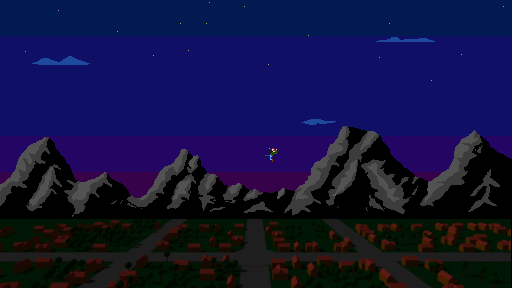
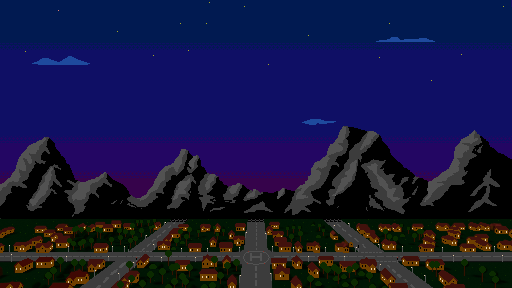
Cannon with recoil!

diff --git a/UfoundLost.js b/UfoundLost.js
@@ -1,64 +1,6 @@
 "use strict";
 var UfoundLost;
 (function (UfoundLost) {
-    var ƒAid = FudgeAid;
-    class Detonation extends ƒAid.Node {
-        constructor(_position) {
-            super("Detonation", ƒ.Matrix4x4.TRANSLATION(_position), Detonation.material, Detonation.mesh);
-            this.getComponent(ƒ.ComponentMesh).pivot.scaling = ƒ.Vector3.ONE(Detonation.radius);
-            // this.getComponent(ƒ.ComponentMaterial).pivot.scaling = ƒ.Vector2.ONE(10);
-        }
-        update(_timeslice) {
-            let cmpMaterial = this.getComponent(ƒ.ComponentMaterial);
-            cmpMaterial.clrPrimary.a -= _timeslice;
-            return (cmpMaterial.clrPrimary.a < 0);
-        }
-    }
-    Detonation.mesh = new ƒ.MeshSphere("Detonation", 10, 10);
-    Detonation.material = new ƒ.Material("Detonation", ƒ.ShaderUniColor, new ƒ.CoatColored(ƒ.Color.CSS("gray")));
-    // private static material: ƒ.Material = new ƒ.Material("Detonation", ƒ.ShaderTexture,
-    //   new ƒ.CoatTextured(ƒ.Color.CSS("white"), new ƒ.TextureImage("Images/Smoke.png"))
-    // );
-    Detonation.radius = 2;
-    UfoundLost.Detonation = Detonation;
-})(UfoundLost || (UfoundLost = {}));
-var UfoundLost;
-(function (UfoundLost) {
-    class Flak extends ƒ.Node {
-        constructor() {
-            super("FlakGraph");
-            let mtrCrosshair = new ƒ.Material("Crosshair", ƒ.ShaderTexture, new ƒ.CoatTextured(ƒ.Color.CSS("White"), new ƒ.TextureImage("Images/Crosshair.png")));
-            this.crosshair = new UfoundLost.GameObject("Crosshair", ƒ.Vector3.Y(UfoundLost.ufoSpaceDefinition.height), mtrCrosshair, ƒ.Vector2.ONE(0.5));
-            this.crosshair.maxVelocity = 3;
-            this.appendChild(this.crosshair);
-            this.crosshairTarget = new UfoundLost.GameObject("CrosshairTarget", ƒ.Vector3.Y(UfoundLost.ufoSpaceDefinition.height - 2), mtrCrosshair, ƒ.Vector2.ONE(0.3));
-            this.appendChild(this.crosshairTarget);
-            this.detonations = new ƒ.Node("Detonations");
-            this.appendChild(this.detonations);
-        }
-        update(_timeslice) {
-            this.crosshair.setTargetPosition(this.crosshairTarget.mtxLocal.translation);
-            this.crosshair.update(_timeslice);
-            for (let detonation of this.detonations.getChildren()) {
-                if (detonation.update(_timeslice))
-                    this.detonations.removeChild(detonation);
-            }
-        }
-        input(_x, _y, _z) {
-            let move = new ƒ.Vector3(_x, _y, _z);
-            this.crosshairTarget.mtxLocal.translate(move);
-            this.crosshairTarget.restrictPosition(UfoundLost.ufoSpaceDefinition.min, UfoundLost.ufoSpaceDefinition.max);
-        }
-        shoot() {
-            ƒ.Debug.fudge("shoot");
-            let detonation = new UfoundLost.Detonation(this.crosshair.mtxLocal.translation);
-            this.detonations.appendChild(detonation);
-        }
-    }
-    UfoundLost.Flak = Flak;
-})(UfoundLost || (UfoundLost = {}));
-var UfoundLost;
-(function (UfoundLost) {
     var ƒ = FudgeCore;
     class GameObject extends ƒ.Node {
         constructor(_name, _position, _material, _size, _rotation) {
@@ -103,6 +45,91 @@ var UfoundLost;
     }
     GameObject.meshSprite = new ƒ.MeshSprite();
     UfoundLost.GameObject = GameObject;
+})(UfoundLost || (UfoundLost = {}));
+///<reference path="GameObject.ts"/>
+var UfoundLost;
+///<reference path="GameObject.ts"/>
+(function (UfoundLost) {
+    class Detonation extends UfoundLost.GameObject {
+        constructor(_position) {
+            super("Detonation", _position, Detonation.material, ƒ.Vector2.ONE(Detonation.radius));
+            // this.getComponent(ƒ.ComponentMaterial).pivot.scaling = ƒ.Vector2.ONE(10);
+            this.velocity = ƒ.Vector3.Y(0.3);
+        }
+        update(_timeslice) {
+            super.update(_timeslice);
+            let cmpMaterial = this.getComponent(ƒ.ComponentMaterial);
+            cmpMaterial.clrPrimary.a -= _timeslice;
+            return (cmpMaterial.clrPrimary.a < 0);
+        }
+    }
+    Detonation.material = new ƒ.Material("Detonation", ƒ.ShaderTexture, new ƒ.CoatTextured(new ƒ.Color(1, 0.4, 0.2), new ƒ.TextureImage("Images/Smoke.png")));
+    Detonation.radius = 2;
+    UfoundLost.Detonation = Detonation;
+})(UfoundLost || (UfoundLost = {}));
+var UfoundLost;
+(function (UfoundLost) {
+    var ƒAid = FudgeAid;
+    class Flak extends ƒ.Node {
+        constructor() {
+            super("FlakGraph");
+            let mtrCrosshair = new ƒ.Material("Crosshair", ƒ.ShaderTexture, new ƒ.CoatTextured(ƒ.Color.CSS("White"), new ƒ.TextureImage("Images/Crosshair.png")));
+            this.crosshair = new UfoundLost.GameObject("Crosshair", ƒ.Vector3.Y(UfoundLost.ufoSpaceDefinition.height), mtrCrosshair, ƒ.Vector2.ONE(0.5));
+            this.crosshair.maxVelocity = 3;
+            this.appendChild(this.crosshair);
+            this.crosshairTarget = new UfoundLost.GameObject("CrosshairTarget", ƒ.Vector3.Y(UfoundLost.ufoSpaceDefinition.height - 2), mtrCrosshair, ƒ.Vector2.ONE(0.3));
+            this.appendChild(this.crosshairTarget);
+            this.detonations = new ƒ.Node("Detonations");
+            this.appendChild(this.detonations);
+            this.cannon = this.createCannon();
+            this.appendChild(this.cannon);
+        }
+        update(_timeslice) {
+            this.crosshair.setTargetPosition(this.crosshairTarget.mtxLocal.translation);
+            this.crosshair.update(_timeslice);
+            let bearing = Reflect.get(this.cannon, "bearingLocal");
+            bearing.lookAt(this.crosshair.mtxLocal.translation);
+            let pivot = Reflect.get(this.cannon, "barrelPivot");
+            if (pivot.translation.z < 0.2)
+                pivot.translateZ((0.2 - pivot.translation.z) / 5);
+            for (let detonation of this.detonations.getChildren()) {
+                if (detonation.update(_timeslice))
+                    this.detonations.removeChild(detonation);
+            }
+        }
+        input(_x, _y, _z) {
+            let move = new ƒ.Vector3(_x, _y, _z);
+            this.crosshairTarget.mtxLocal.translate(move);
+            this.crosshairTarget.restrictPosition(UfoundLost.ufoSpaceDefinition.min, UfoundLost.ufoSpaceDefinition.max);
+        }
+        shoot() {
+            ƒ.Debug.fudge("shoot");
+            let detonation = new UfoundLost.Detonation(this.crosshair.mtxLocal.translation);
+            this.detonations.appendChild(detonation);
+            let pivot = Reflect.get(this.cannon, "barrelPivot");
+            pivot.translation = ƒ.Vector3.Z(0.0);
+        }
+        createCannon() {
+            let cannon = new ƒAid.Node("Cannon", ƒ.Matrix4x4.TRANSLATION(ƒ.Vector3.Z(5)));
+            let mtrCannon = new ƒ.Material("Cannon", ƒ.ShaderFlat, new ƒ.CoatColored(ƒ.Color.CSS("lightgrey")));
+            let meshCannon = new ƒ.MeshCube();
+            let barrel = new ƒAid.Node("Barrel", ƒ.Matrix4x4.IDENTITY(), mtrCannon, meshCannon);
+            let pivot = barrel.getComponent(ƒ.ComponentMesh).pivot;
+            pivot.rotateZ(45);
+            pivot.scale(new ƒ.Vector3(0.05, 0.05, 0.3));
+            pivot.translateZ(0.2);
+            cannon.appendChild(new ƒAid.Node("Pod1", ƒ.Matrix4x4.SCALING(new ƒ.Vector3(0.2, 0.02, 0.02)), mtrCannon, meshCannon));
+            cannon.appendChild(new ƒAid.Node("Pod2", ƒ.Matrix4x4.SCALING(new ƒ.Vector3(0.02, 0.02, 0.2)), mtrCannon, meshCannon));
+            let bearing = new ƒAid.Node("Bearing", ƒ.Matrix4x4.TRANSLATION(ƒ.Vector3.Y(0.2)), mtrCannon, new ƒ.MeshSphere("Bearing", 6, 6));
+            bearing.getComponent(ƒ.ComponentMesh).pivot.scale(new ƒ.Vector3(0.1, 0.1, 0.3));
+            cannon.appendChild(bearing);
+            bearing.appendChild(barrel);
+            Reflect.set(cannon, "barrelPivot", pivot);
+            Reflect.set(cannon, "bearingLocal", cannon.getChildrenByName("Bearing")[0].mtxLocal);
+            return cannon;
+        }
+    }
+    UfoundLost.Flak = Flak;
 })(UfoundLost || (UfoundLost = {}));
 var UfoundLost;
 (function (UfoundLost) {
@@ -233,6 +260,7 @@ var UfoundLost;
     function createScene() {
         let origin = new ƒAid.NodeCoordinateSystem("Origin");
         // graph.appendChild(origin);
+        ƒAid.addStandardLightComponents(UfoundLost.graph);
         let meshQuad = new ƒ.MeshQuad();
         let mtrWhite = new ƒ.Material("Background", ƒ.ShaderUniColor, new ƒ.CoatColored(ƒ.Color.CSS("white")));
         let mtrBackground = new ƒ.Material("Background", ƒ.ShaderTexture, new ƒ.CoatTextured(ƒ.Color.CSS("white"), new ƒ.TextureImage("Images/Background.png")));

diff --git a/Flak.ts b/Flak.ts
@@ -1,8 +1,11 @@
 namespace UfoundLost {
+  import ƒAid = FudgeAid;
+
   export class Flak extends ƒ.Node {
     private crosshair: GameObject;
     private crosshairTarget: GameObject;
     private detonations: ƒ.Node;
+    private cannon: ƒ.Node;
 
     public constructor() {
       super("FlakGraph");
@@ -18,11 +21,19 @@ namespace UfoundLost {
 
       this.detonations = new ƒ.Node("Detonations");
       this.appendChild(this.detonations);
+      this.cannon = this.createCannon();
+      this.appendChild(this.cannon);
     }
 
     public update(_timeslice: number): void {
       this.crosshair.setTargetPosition(this.crosshairTarget.mtxLocal.translation);
       this.crosshair.update(_timeslice);
+
+      let bearing: ƒ.Matrix4x4 = Reflect.get(this.cannon, "bearingLocal");
+      bearing.lookAt(this.crosshair.mtxLocal.translation);
+      let pivot: ƒ.Matrix4x4 = Reflect.get(this.cannon, "barrelPivot");
+      if (pivot.translation.z < 0.2)
+        pivot.translateZ((0.2 - pivot.translation.z) / 5);
 
       for (let detonation of this.detonations.getChildren() as Detonation[]) {
         if (detonation.update(_timeslice))
@@ -40,6 +51,35 @@ namespace UfoundLost {
       ƒ.Debug.fudge("shoot");
       let detonation: Detonation = new Detonation(this.crosshair.mtxLocal.translation);
       this.detonations.appendChild(detonation);
+
+      let pivot: ƒ.Matrix4x4 = Reflect.get(this.cannon, "barrelPivot");
+      pivot.translation = ƒ.Vector3.Z(0.0);
+    }
+
+    private createCannon(): ƒ.Node {
+      let cannon: ƒAid.Node = new ƒAid.Node("Cannon", ƒ.Matrix4x4.TRANSLATION(ƒ.Vector3.Z(5)));
+      let mtrCannon: ƒ.Material = new ƒ.Material("Cannon", ƒ.ShaderFlat, new ƒ.CoatColored(ƒ.Color.CSS("lightgrey")));
+      let meshCannon: ƒ.MeshCube = new ƒ.MeshCube();
+
+      let barrel: ƒAid.Node = new ƒAid.Node("Barrel", ƒ.Matrix4x4.IDENTITY(), mtrCannon, meshCannon);
+      let pivot: ƒ.Matrix4x4 = barrel.getComponent(ƒ.ComponentMesh).pivot;
+      pivot.rotateZ(45);
+      pivot.scale(new ƒ.Vector3(0.05, 0.05, 0.3));
+      pivot.translateZ(0.2);
+
+
+      cannon.appendChild(new ƒAid.Node("Pod1", ƒ.Matrix4x4.SCALING(new ƒ.Vector3(0.2, 0.02, 0.02)), mtrCannon, meshCannon));
+      cannon.appendChild(new ƒAid.Node("Pod2", ƒ.Matrix4x4.SCALING(new ƒ.Vector3(0.02, 0.02, 0.2)), mtrCannon, meshCannon));
+      let bearing: ƒ.Node = new ƒAid.Node("Bearing", ƒ.Matrix4x4.TRANSLATION(ƒ.Vector3.Y(0.2)), mtrCannon,
+        new ƒ.MeshSphere("Bearing", 6, 6)
+      ); 
+      bearing.getComponent(ƒ.ComponentMesh).pivot.scale(new ƒ.Vector3(0.1, 0.1, 0.3));
+      cannon.appendChild(bearing)
+      bearing.appendChild(barrel);
+
+      Reflect.set(cannon, "barrelPivot", pivot);
+      Reflect.set(cannon, "bearingLocal", cannon.getChildrenByName("Bearing")[0].mtxLocal);
+      return cannon;
     }
   }
 }

diff --git a/Detonation.ts b/Detonation.ts
@@ -1,20 +1,20 @@
+///<reference path="GameObject.ts"/>
 namespace UfoundLost {
   import ƒAid = FudgeAid;
-  export class Detonation extends ƒAid.Node {
-    private static mesh: ƒ.MeshSphere = new ƒ.MeshSphere("Detonation", 10, 10);
-    private static material: ƒ.Material = new ƒ.Material("Detonation", ƒ.ShaderUniColor, new ƒ.CoatColored(ƒ.Color.CSS("gray")));
-    // private static material: ƒ.Material = new ƒ.Material("Detonation", ƒ.ShaderTexture,
-    //   new ƒ.CoatTextured(ƒ.Color.CSS("white"), new ƒ.TextureImage("Images/Smoke.png"))
-    // );
+  export class Detonation extends GameObject {
+    private static material: ƒ.Material = new ƒ.Material("Detonation", ƒ.ShaderTexture,
+      new ƒ.CoatTextured(new ƒ.Color(1, 0.4, 0.2), new ƒ.TextureImage("Images/Smoke.png"))
+    );
     private static radius: number = 2;
 
     constructor(_position: ƒ.Vector3) {
-      super("Detonation", ƒ.Matrix4x4.TRANSLATION(_position), Detonation.material, Detonation.mesh);
-      this.getComponent(ƒ.ComponentMesh).pivot.scaling = ƒ.Vector3.ONE(Detonation.radius);
+      super("Detonation", _position, Detonation.material, ƒ.Vector2.ONE(Detonation.radius));
       // this.getComponent(ƒ.ComponentMaterial).pivot.scaling = ƒ.Vector2.ONE(10);
+      this.velocity = ƒ.Vector3.Y(0.3);
     }
 
     public update(_timeslice: number): boolean {
+      super.update(_timeslice);
       let cmpMaterial = this.getComponent(ƒ.ComponentMaterial);
       cmpMaterial.clrPrimary.a -= _timeslice;
       return (cmpMaterial.clrPrimary.a < 0)

diff --git a/Main.ts b/Main.ts
@@ -110,6 +110,7 @@ namespace UfoundLost {
   function createScene(): void {
     let origin: ƒAid.NodeCoordinateSystem = new ƒAid.NodeCoordinateSystem("Origin");
     // graph.appendChild(origin);
+    ƒAid.addStandardLightComponents(graph);
 
 
     let meshQuad: ƒ.MeshQuad = new ƒ.MeshQuad();
